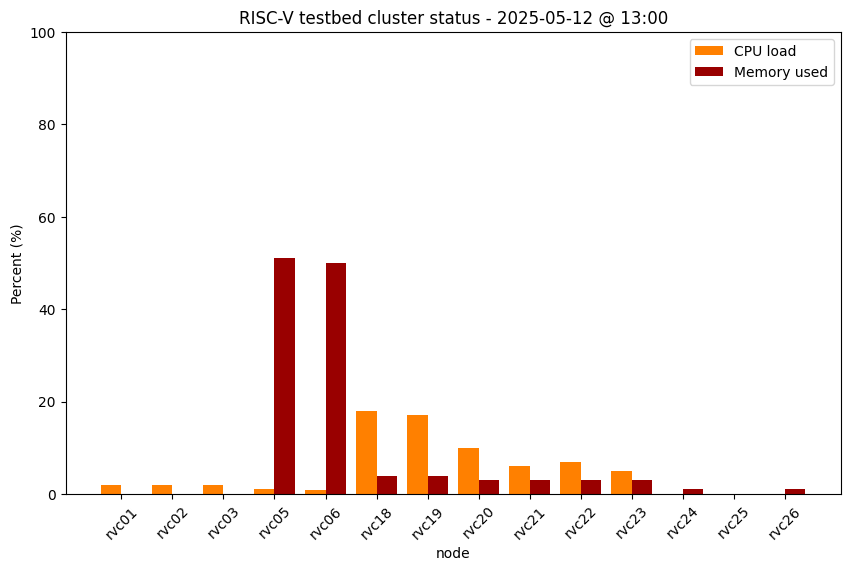
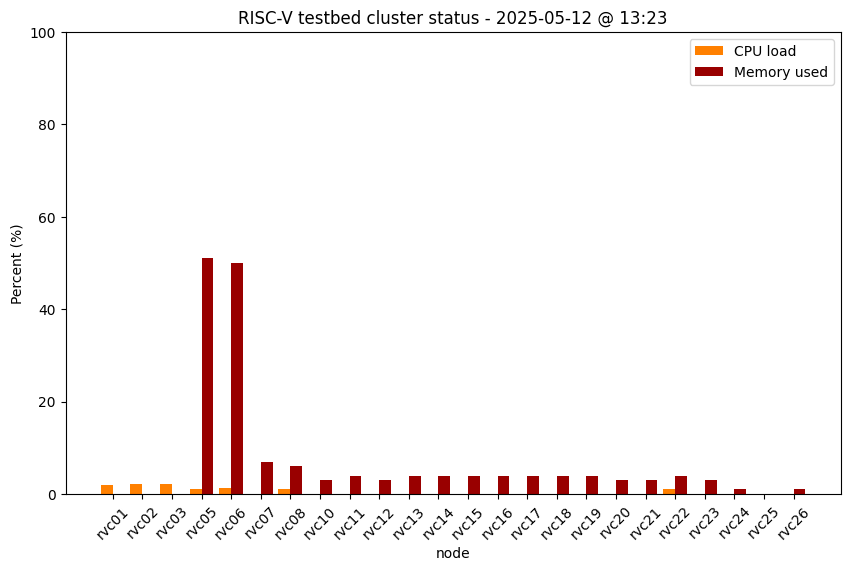
Update cluster status

Changed region(s): [[0.1224, 0.4466, 0.9482, 0.9527], [0.2753, 0.0, 0.7953, 0.0595], [0.1224, 0.8336, 0.1835, 0.8634]]

diff --git a/status.md b/status.md
@@ -19,17 +19,17 @@ permalink: /status/
 | DongshanNezhaSTU #4 | rvc04 | 1 | 512MB | <img src="/images/amber.png" alt="amber light" width="10"/> offline |
 | MangoPi MQ-Pro #1 | rvc05 | 1 | 1GB | <img src="/images/on.png" alt="green light" width="10"/> up |
 | MangoPi MQ-Pro #2 | rvc06 | 1 | 1GB | <img src="/images/on.png" alt="green light" width="10"/> up |
-| StarFive VisionFive V1 #1 | rvc07 | 2 | 8GB | <img src="/images/off.png" alt="red light" width="10"/> down |
-| StarFive VisionFive V1 #2 | rvc08 | 2 | 8GB | <img src="/images/off.png" alt="red light" width="10"/> down |
+| StarFive VisionFive V1 #1 | rvc07 | 2 | 8GB | <img src="/images/on.png" alt="green light" width="10"/> up |
+| StarFive VisionFive V1 #2 | rvc08 | 2 | 8GB | <img src="/images/on.png" alt="green light" width="10"/> up |
 | StarFive VisionFive V1 #3 | rvc09 | 2 | 8GB | <img src="/images/amber.png" alt="amber light" width="10"/> offline |
-| HiFive Unmatched  | rvc10 | 4 | 16GB | <img src="/images/off.png" alt="red light" width="10"/> down |
-| StarFive VisionFive V2 #1 | rvc11 | 4 | 8GB | <img src="/images/off.png" alt="red light" width="10"/> down |
-| StarFive VisionFive V2 #2 | rvc12 | 4 | 8GB | <img src="/images/off.png" alt="red light" width="10"/> down |
-| StarFive VisionFive V2 #3 | rvc13 | 4 | 8GB | <img src="/images/off.png" alt="red light" width="10"/> down |
-| StarFive VisionFive V2 #4 | rvc14| 4 | 8GB | <img src="/images/off.png" alt="red light" width="10"/> down |
-| StarFive VisionFive V2 #5 | rvc15 | 4 | 8GB | <img src="/images/off.png" alt="red light" width="10"/> down |
-| StarFive VisionFive V2 #6 | rvc16 | 4 | 8GB | <img src="/images/off.png" alt="red light" width="10"/> down |
-| StarFive VisionFive V2 #7 | rvc17 | 4 | 8GB | <img src="/images/off.png" alt="red light" width="10"/> down |
+| HiFive Unmatched  | rvc10 | 4 | 16GB | <img src="/images/on.png" alt="green light" width="10"/> up |
+| StarFive VisionFive V2 #1 | rvc11 | 4 | 8GB | <img src="/images/on.png" alt="green light" width="10"/> up |
+| StarFive VisionFive V2 #2 | rvc12 | 4 | 8GB | <img src="/images/on.png" alt="green light" width="10"/> up |
+| StarFive VisionFive V2 #3 | rvc13 | 4 | 8GB | <img src="/images/on.png" alt="green light" width="10"/> up |
+| StarFive VisionFive V2 #4 | rvc14| 4 | 8GB | <img src="/images/on.png" alt="green light" width="10"/> up |
+| StarFive VisionFive V2 #5 | rvc15 | 4 | 8GB | <img src="/images/on.png" alt="green light" width="10"/> up |
+| StarFive VisionFive V2 #6 | rvc16 | 4 | 8GB | <img src="/images/on.png" alt="green light" width="10"/> up |
+| StarFive VisionFive V2 #7 | rvc17 | 4 | 8GB | <img src="/images/on.png" alt="green light" width="10"/> up |
 | StarFive VisionFive V2 #8 | rvc18 | 4 | 8GB | <img src="/images/on.png" alt="green light" width="10"/> up |
 | StarFive VisionFive V2 #9 | rvc19 | 4 | 8GB | <img src="/images/on.png" alt="green light" width="10"/> up |
 | StarFive VisionFive V2 #10 | rvc20 | 4 | 8GB | <img src="/images/on.png" alt="green light" width="10"/> up | 
